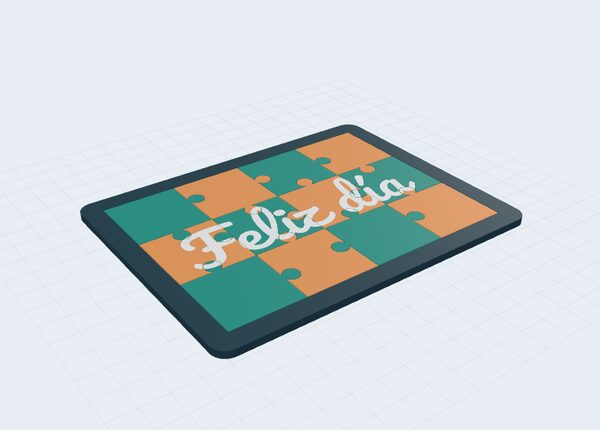
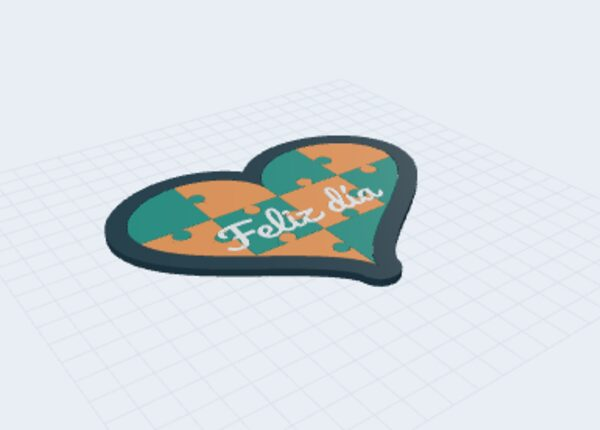
Rompecabezas: contorno redondo, hexagonal, corazón o silueta de imagen, variación de piezas y foto en colores
- Las piecitas que quedan chicas en el borde se pegan a la vecina.
- El marco sigue el contorno.
- Foto o dibujo separado en colores y embutido en las piezas.

Claude-Session: https://claude.ai/code/session_01VT5APbt7zBXbBLY97F7gEV

Changed region(s): [[0.18, 0.2721, 0.87, 0.8465], [0.12, 0.4233, 0.27, 0.5744]]

diff --git a/src/generators/rompecabezas.js b/src/generators/rompecabezas.js
@@ -5,8 +5,9 @@
  */
 import { wasm, circle, roundedRect, slab, part } from '../engine/geom.js';
 import { mergeByColor, stackLines } from '../engine/layers.js';
-import { fitInto } from '../engine/shapes.js';
-import { firstLine } from './_common.js';
+import { fitInto, heart, stretchTo } from '../engine/shapes.js';
+import { maskToShape, sampleColorLayers } from '../engine/trace.js';
+import { firstLine, imageParams, silhouette } from './_common.js';
 
 function rng(seed) {
   let a = seed >>> 0;
@@ -16,17 +17,27 @@ function rng(seed) {
 export default {
   id: 'rompecabezas',
   title: 'Rompecabezas',
-  description: 'Piezas con encastre en cuadrícula, con marco y un nombre repartido entre las piezas.',
+  description: 'Rectangular, redondo, hexagonal, corazón o con la silueta de tu imagen; con foto en colores o un nombre repartido entre las piezas.',
   fileName: v => `rompecabezas_${v.cols}x${v.rows}_${firstLine(v.text, 'liso')}`,
   params: [
+    { type: 'group', label: 'Forma' },
+    { key: 'outline', type: 'segment', label: 'Contorno', default: 'rect', options: [{ value: 'rect', label: 'Rectangular' }, { value: 'circle', label: 'Redondo' }, { value: 'hex', label: 'Hexagonal' }, { value: 'heart', label: 'Corazón' }, { value: 'image', label: 'Silueta de imagen' }] },
+    ...imageParams({ label: 'Imagen para la silueta', showIf: v => v.outline === 'image' }).filter(p => ['image', 'removeBg', 'bgTol', 'threshold', 'invert', 'smooth'].includes(p.key)),
+
     { type: 'group', label: 'Piezas' },
     { key: 'cols', type: 'number', label: 'Columnas', default: 4, min: 2, max: 12, step: 1, unit: '' },
     { key: 'rows', type: 'number', label: 'Filas', default: 3, min: 2, max: 12, step: 1, unit: '' },
     { key: 'cell', type: 'number', label: 'Tamaño de cada pieza', default: 30, min: 15, max: 60, step: 1, unit: 'mm' },
     { key: 'tab', type: 'number', label: 'Tamaño de la lengüeta', default: 0.22, min: 0.12, max: 0.3, step: 0.01, unit: '×' },
     { key: 'gap', type: 'number', label: 'Holgura entre piezas', default: 0.25, min: 0.1, max: 0.8, step: 0.05, unit: 'mm', hint: 'Más holgura = encastra más suelto.' },
+    { key: 'jitter', type: 'number', label: 'Variación de las piezas', default: 30, min: 0, max: 100, step: 5, unit: '%', hint: 'Mueve y cambia el tamaño de las lengüetas para que ninguna pieza sea igual.' },
     { key: 'seed', type: 'number', label: 'Variante de piezas', default: 7, min: 1, max: 999, step: 1, unit: '', hint: 'Cambiala para sortear otras formas de piezas.' },
     { key: 'thick', type: 'number', label: 'Espesor', default: 3, min: 1.6, max: 8, step: 0.2, unit: 'mm' },
+
+    { type: 'group', label: 'Dibujo arriba (opcional)' },
+    { key: 'photo', type: 'image', label: 'Foto o dibujo en colores', default: '', hint: 'Se separa en colores y queda embutida en las piezas: hay que armarlo para verlo entero.' },
+    { key: 'photoColors', type: 'segment', label: 'Colores de la foto', default: 4, options: [2, 3, 4, 5, 6].map(n => ({ value: n, label: String(n) })), show: v => !!v.photo },
+    { key: 'photoBg', type: 'toggle', label: 'Quitar el fondo de la foto', default: false, show: v => !!v.photo },
 
     { type: 'group', label: 'Texto (opcional)' },
     { key: 'text', type: 'text', label: 'Texto repartido en las piezas', default: 'Feliz día', multiline: true },
@@ -48,17 +59,26 @@ export default {
     const { CrossSection } = wasm();
     const C = v.cell, nx = v.cols, ny = v.rows, W = nx * C, H = ny * C;
     const rand = rng(v.seed * 9973 + nx * 31 + ny);
+    const J = (v.jitter ?? 30) / 100;
     const R = C * v.tab / 2;
     // Lengüeta: círculo + cuello, apoyada en el borde y saliendo hacia +Y
-    const knob = circle(R, 40).translate([0, R * 0.95]).add(CrossSection.square([R * 0.9, R * 0.9], false).translate([-R * 0.45, -0.01]));
+    const knobOf = k => circle(R * k, 40).translate([0, R * k * 0.95]).add(CrossSection.square([R * k * 0.9, R * k * 0.9], false).translate([-R * k * 0.45, -0.01]));
     // Bordes interiores: sentido sorteado (+1 sale hacia la pieza de arriba/derecha)
     const hDir = [], vDir = [];
     for (let i = 0; i < nx; i++) for (let j = 1; j < ny; j++) hDir[i * ny + j] = rand() < 0.5 ? 1 : -1;
     for (let i = 1; i < nx; i++) for (let j = 0; j < ny; j++) vDir[i * ny + j] = rand() < 0.5 ? 1 : -1;
-    // Forma de la lengüeta de cada borde, en el mundo
-    const hKnob = (i, j) => { const d = hDir[i * ny + j]; const k = d > 0 ? knob : knob.mirror([0, 1]); return k.translate([(i + 0.5) * C - W / 2 + (rand2(i, j) - 0.5) * C * 0.15, j * C - H / 2]); };
-    const vKnob = (i, j) => { const d = vDir[i * ny + j]; const k = (d > 0 ? knob : knob.mirror([0, 1])).rotate(-90); return k.translate([i * C - W / 2, (j + 0.5) * C - H / 2 + (rand2(j + 50, i) - 0.5) * C * 0.15]); };
     function rand2(a, b) { const r = rng(v.seed * 131 + a * 977 + b * 7919); return r(); }
+    const size = (a, b) => 1 + (rand2(a + 300, b) - 0.5) * 0.5 * J;
+    // Forma de la lengüeta de cada borde, en el mundo
+    const hKnob = (i, j) => { const k = knobOf(size(i, j)); const d = hDir[i * ny + j]; return (d > 0 ? k : k.mirror([0, 1])).translate([(i + 0.5) * C - W / 2 + (rand2(i, j) - 0.5) * C * 0.4 * J, j * C - H / 2]); };
+    const vKnob = (i, j) => { const k = knobOf(size(j + 50, i)); const d = vDir[i * ny + j]; return (d > 0 ? k : k.mirror([0, 1])).rotate(-90).translate([i * C - W / 2, (j + 0.5) * C - H / 2 + (rand2(j + 50, i) - 0.5) * C * 0.4 * J]); };
+
+    // Contorno del rompecabezas
+    let outline = null;
+    if (v.outline === 'circle') outline = circle(Math.min(W, H) / 2, 160);
+    else if (v.outline === 'hex') outline = stretchTo(circle(10, 6).rotate(30), W, H);
+    else if (v.outline === 'heart') outline = stretchTo(heart(100), W, H);
+    else if (v.outline === 'image') outline = stretchTo(fillAll(await silhouette(v, ctx, 100, { fill: true })), W, H);
 
     const pieces = [];
     for (let i = 0; i < nx; i++) for (let j = 0; j < ny; j++) {
@@ -68,20 +88,62 @@ export default {
       if (j < ny - 1) p = hDir[i * ny + j + 1] > 0 ? p.add(hKnob(i, j + 1)) : p.subtract(hKnob(i, j + 1));
       if (i > 0) p = vDir[i * ny + j] < 0 ? p.add(vKnob(i, j)) : p.subtract(vKnob(i, j));
       if (i < nx - 1) p = vDir[(i + 1) * ny + j] > 0 ? p.add(vKnob(i + 1, j)) : p.subtract(vKnob(i + 1, j));
-      pieces.push({ shape: p.offset(-v.gap / 2, 'Round', 2, 16), odd: (i + j) % 2 === 1 });
+      if (outline) p = p.intersect(outline);
+      pieces.push({ shape: p, odd: (i + j) % 2 === 1, i, j });
     }
+    // Con contorno, las piecitas que quedan muy chicas se pegan a la vecina más grande
+    if (outline) {
+      const min = C * C * 0.25;
+      for (const pc of pieces) {
+        for (const part of pc.shape.decompose()) {
+          if (part.area() >= min) continue;
+          let best = null, ba = 0;
+          for (const o of pieces) {
+            if (o === pc || Math.abs(o.i - pc.i) + Math.abs(o.j - pc.j) !== 1) continue;
+            const touch = o.shape.offset(0.05, 'Miter', 2, 4).intersect(part);
+            if (!touch.isEmpty() && o.shape.area() > ba) { ba = o.shape.area(); best = o; }
+          }
+          if (best) { best.shape = best.shape.add(part); pc.shape = pc.shape.subtract(part.offset(0.01, 'Miter', 2, 4)); }
+        }
+      }
+    }
+    for (const pc of pieces) pc.shape = pc.shape.offset(-v.gap / 2, 'Round', 2, 16);
+    const live = pieces.filter(pc => !pc.shape.isEmpty() && pc.shape.area() > 1);
+    pieces.length = 0; pieces.push(...live);
 
     let text2d = null;
     if ((v.text || '').trim()) {
       const font = await ctx.font(v.font);
-      text2d = fitInto(stackLines(String(v.text).split('\n').map(t => ({ font, text: t, height: 10 })), 2), W * 0.85, H * 0.7);
+      text2d = fitInto(stackLines(String(v.text).split('\n').map(t => ({ font, text: t, height: 10 })), 2), W * (outline ? 0.6 : 0.85), H * (outline ? 0.45 : 0.7));
+    }
+    // Foto en colores sobre todas las piezas
+    let photo = [];
+    if (v.photo) {
+      const res = ctx.colors ? await ctx.colors(v.photo, { colors: +v.photoColors, maxPx: 360, removeBg: !!v.photoBg }) : sampleColorLayers();
+      let used = null;
+      const layers = res.layers.map(l => ({ color: l.color, cs: maskToShape(l.mask, { width: 100, smooth: 0.3, minArea: 0.01, center: false }) })).filter(l => !l.cs.isEmpty());
+      if (layers.length) {
+        const all = CrossSection.union(layers.map(l => l.cs)), b = all.bounds();
+        const k = Math.max(W / (b.max[0] - b.min[0]), H / (b.max[1] - b.min[1])); // cubre todo
+        const c = [-(b.min[0] + b.max[0]) / 2, -(b.min[1] + b.max[1]) / 2];
+        const clip = outline || CrossSection.square([W, H], true);
+        photo = layers.map(l => { let cs = l.cs.translate(c).scale([k, k]).intersect(clip); if (used) cs = cs.subtract(used); used = used ? used.add(cs) : cs; return { color: l.color, cs }; }).filter(l => !l.cs.isEmpty());
+      }
     }
     const inlay = 0.6;
     const parts = [];
     for (const pc of pieces) {
       let solid = slab(pc.shape, v.thick);
+      for (const [n, l] of photo.entries()) {
+        const t = l.cs.intersect(pc.shape);
+        if (t.isEmpty()) continue;
+        const ts = slab(t, inlay, v.thick - inlay);
+        solid = solid.subtract(ts);
+        parts.push(part(`Foto ${n + 1}`, l.color, ts));
+      }
       if (text2d) {
-        const t = text2d.intersect(pc.shape);
+        let t = text2d.intersect(pc.shape);
+        for (const l of photo) t = t.subtract(l.cs);
         if (!t.isEmpty()) {
           const ts = slab(t, inlay, v.thick - inlay);
           solid = solid.subtract(ts);
@@ -91,10 +153,18 @@ export default {
       parts.push(part(v.checker && pc.odd ? 'Piezas (alternadas)' : 'Piezas', v.checker && pc.odd ? v.c2 : v.c1, solid));
     }
     if (v.frame) {
-      const inner = CrossSection.square([W + v.gap, H + v.gap], true);
-      const outer = roundedRect(W + 2 * v.frameW, H + 2 * v.frameW, Math.min(6, v.frameW));
+      const inner = outline ? outline.offset(v.gap / 2, 'Round', 2, 24) : CrossSection.square([W + v.gap, H + v.gap], true);
+      const outer = outline ? outline.offset(v.frameW, 'Round', 2, 32) : roundedRect(W + 2 * v.frameW, H + 2 * v.frameW, Math.min(6, v.frameW));
       parts.push(part('Marco', v.cFrame, slab(outer.subtract(inner), v.thick)));
     }
     return mergeByColor(parts);
   },
 };
+
+/** Silueta sin agujeros y de una sola pieza (la isla más grande). */
+function fillAll(cs) {
+  const list = cs.decompose().sort((a, b) => b.area() - a.area());
+  const big = list[0] || cs;
+  const polys = big.toPolygons().filter(p => { let a = 0; for (let i = 0; i < p.length; i++) { const q = p[i], r = p[(i + 1) % p.length]; a += q[0] * r[1] - r[0] * q[1]; } return a > 0; });
+  return polys.length ? new (wasm().CrossSection)(polys, 'Positive') : big;
+}
